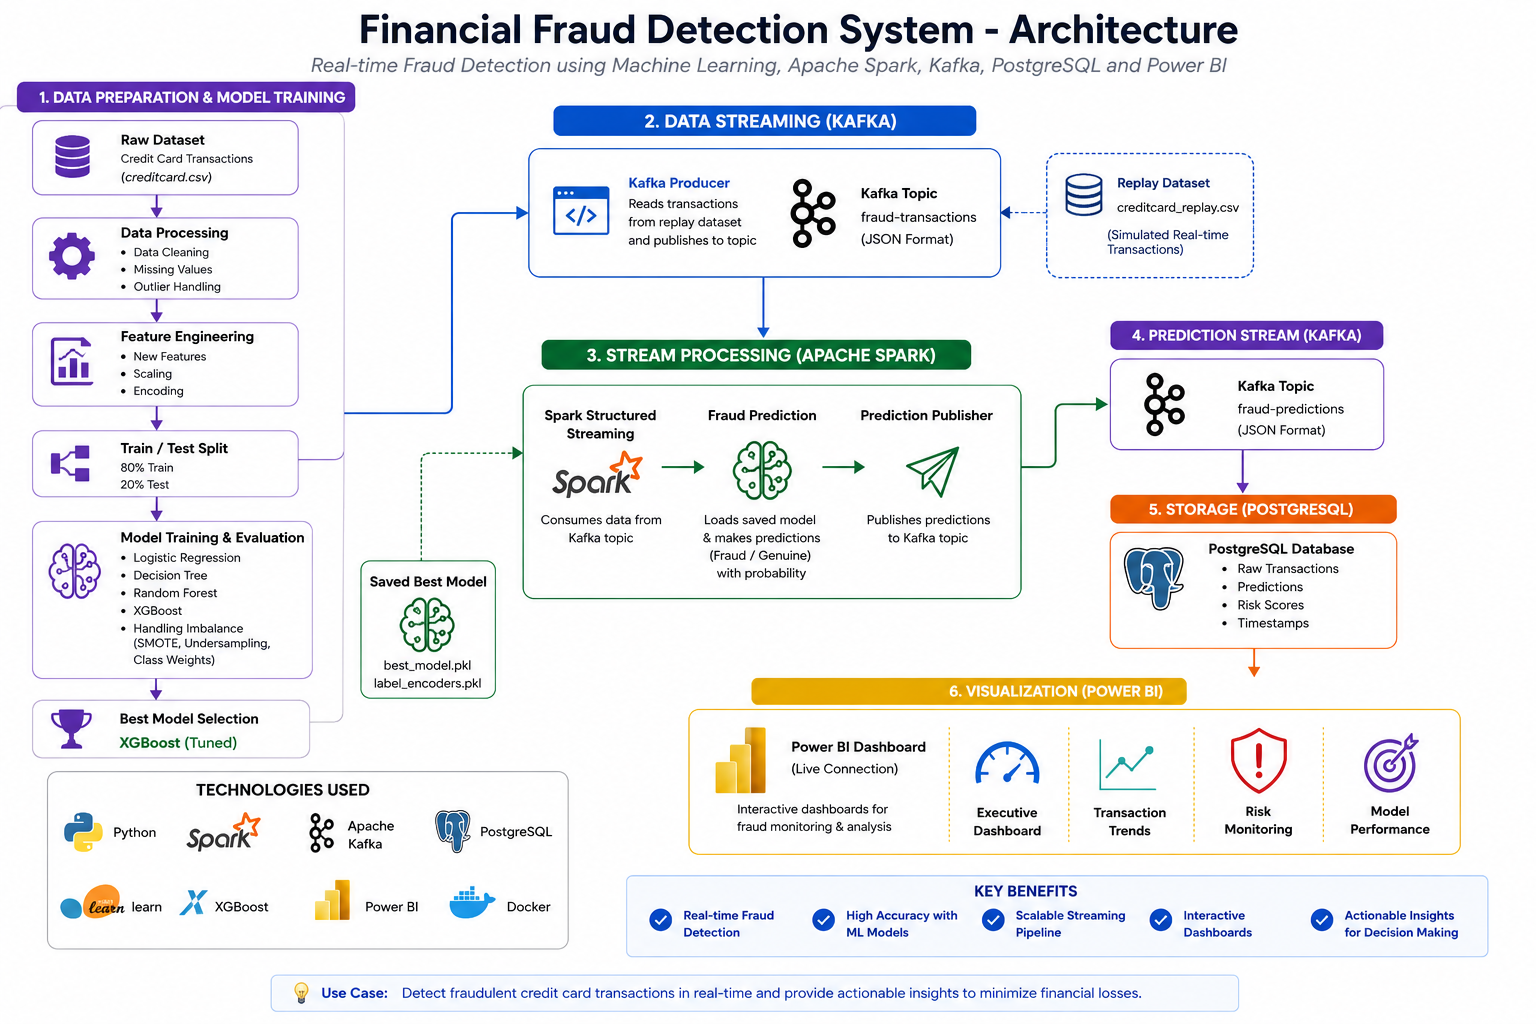
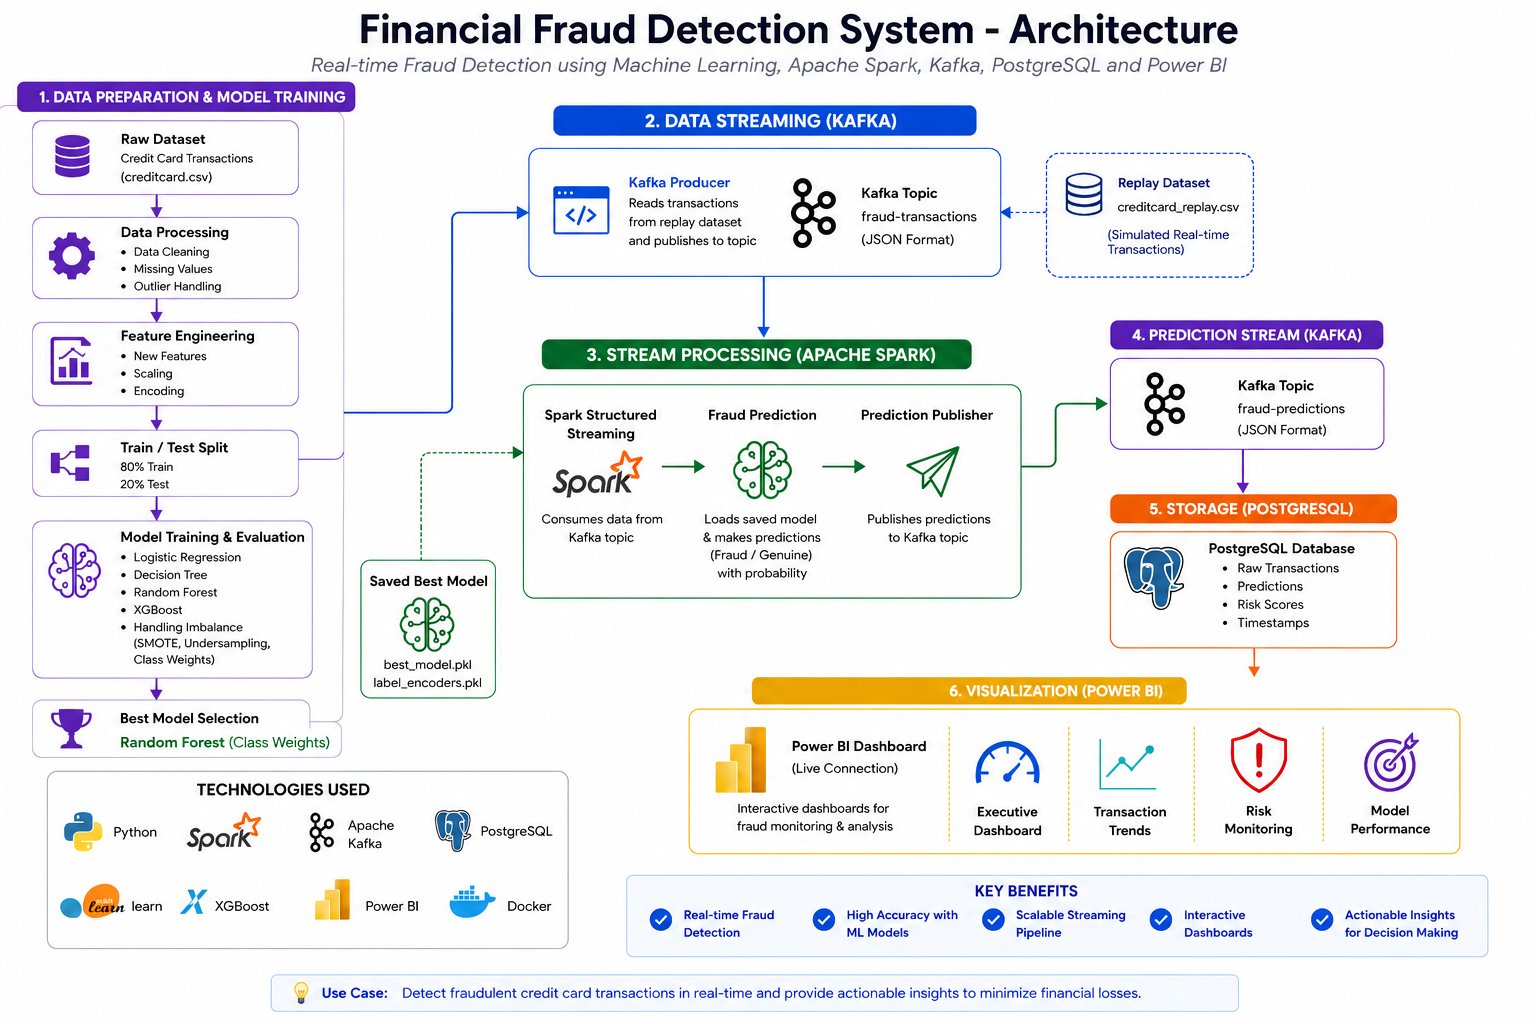
edited architecture and pipeline flow image

diff --git a/README.md b/README.md
@@ -84,7 +84,7 @@ The system:
 # 🏗 System Architecture
 
 <p align="center">
-<img src="images/Architecture.png" width="100%">
+<img src="images/architecture.png" width="100%">
 </p>
 
 ---
@@ -92,7 +92,7 @@ The system:
 # ⚡ End-to-End Pipeline Workflow
 
 <p align="center">
-<img src="images/Pipeline Flow.png" width="100%">
+<img src="images/pipeline_flow.png" width="100%">
 </p>
 
 ---